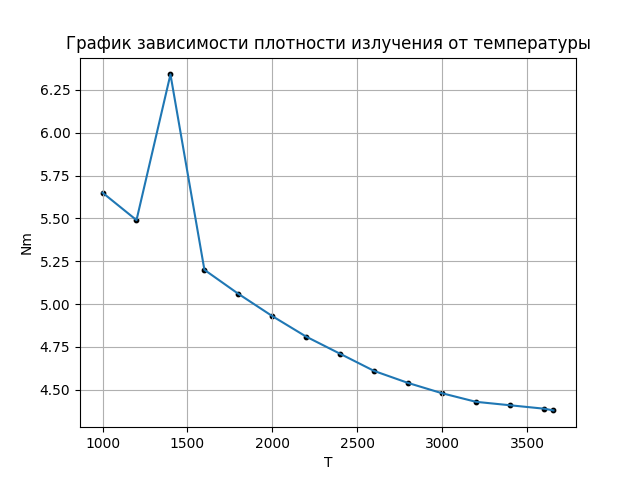
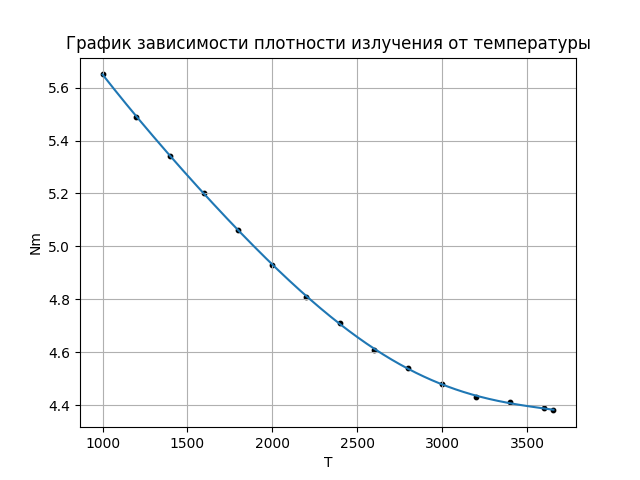
07.12.21

diff --git a/MethodsAndSystemsOfQuantumRadiophysics/lab2/lab2.py b/MethodsAndSystemsOfQuantumRadiophysics/lab2/lab2.py
@@ -12,7 +12,7 @@ def main():
     nl = data1['Nl']
     nn = data1['Nn']
 
-    common_graph(temperature, nm, ['graph1', 'T', 'Nm', 'График зависимости плотности излучения от температуры'])
+    interpolated_graph(temperature, nm, ['graph1', 'T', 'Nm', 'График зависимости плотности излучения от температуры'])
     interpolated_graph(temperature, nl, ['graph2', 'T', 'Nl', 'График зависимости яркости от температуры'])
     interpolated_graph(temperature, nn, ['graph3', 'T', 'Nn', 'График зависимости световой отдачи от температуры'])
 
